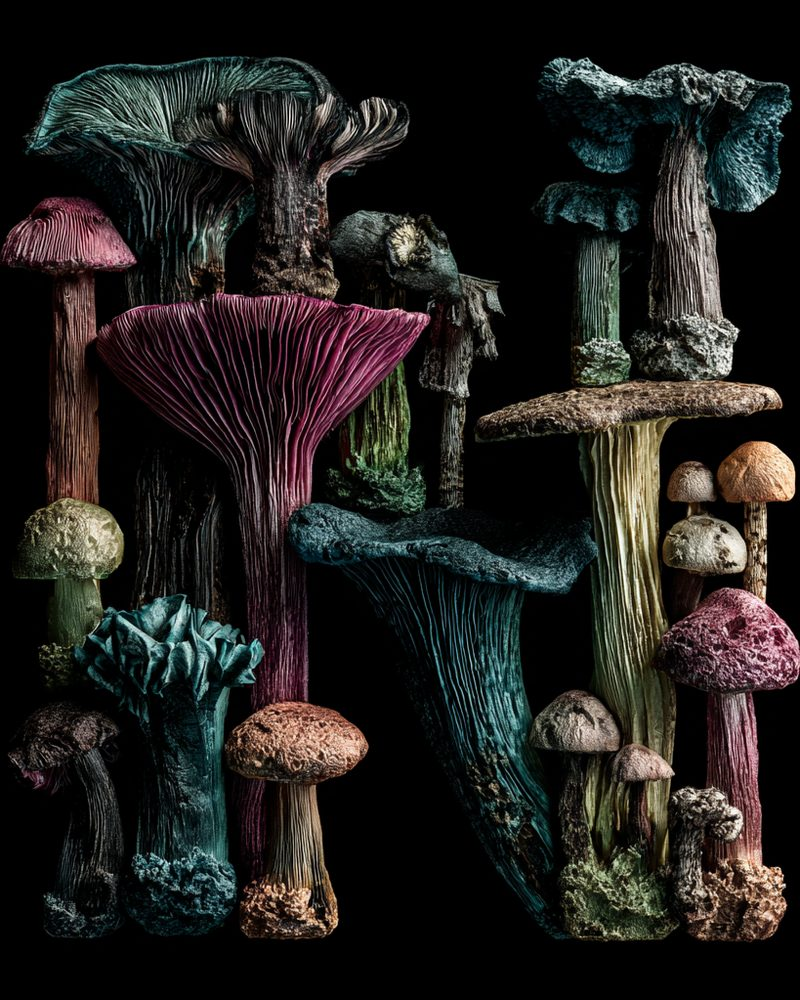
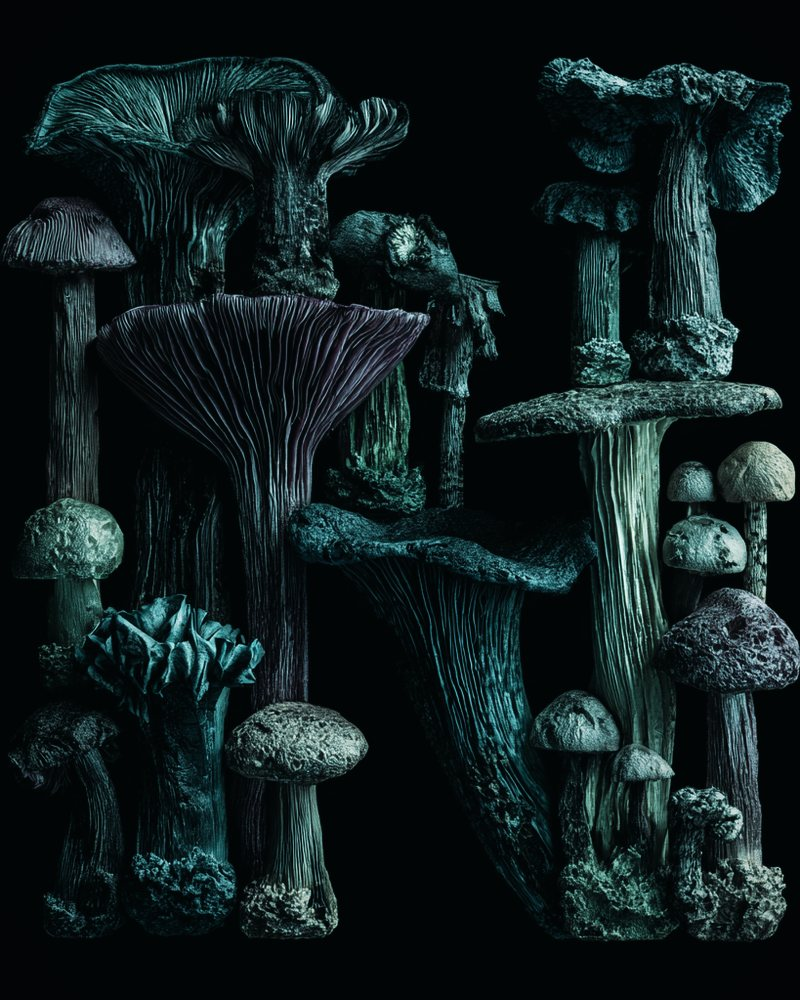
Grade community images to one palette; more effects site-wide
- Regrade personal finance, mycology and new r/shaving images to the
  coffee image's teal (accents kept); add r/shaving tile
- Reactive dots on every page header and the contact section
- Scroll reveals: content fades and rises in, heading rules draw in,
  community images settle from a slight zoom
- Spotlight on press cards and campaign cards too
- Press marquee takes logo files (shown in white); Engadget added,
  others show names until logos are supplied

Claude-Session: https://claude.ai/code/session_01K4Ke8b2gAM3j2hU2ST2Rto

diff --git a/src/app/site.css b/src/app/site.css
@@ -1676,7 +1676,7 @@ p, li, blockquote, figcaption { text-wrap: pretty; }
    -------------------------------------------------------------------------- */
 @media (hover: hover) and (pointer: fine) {
   .service:hover, .feature:hover, .step:hover, .service-block__out:hover,
-  .creds__list li:hover, .quote-card:hover, .community:hover {
+  .creds__list li:hover, .quote-card:hover, .community:hover, .press-card:hover, .camp:hover {
     background-image: radial-gradient(260px circle at var(--sx, 50%) var(--sy, 50%), rgba(0, 188, 212, 0.16), transparent 70%);
   }
   .community:hover, .quote-card:hover { box-shadow: var(--glow); }
@@ -1787,3 +1787,37 @@ p, li, blockquote, figcaption { text-wrap: pretty; }
   color: #cfd6d9;
 }
 .communities .section-head .body-lg { max-width: 46ch; }
+
+/* --------------------------------------------------------------------------
+   Scroll reveals (classes added by PageEffects; nothing hides without JS)
+   -------------------------------------------------------------------------- */
+@media (prefers-reduced-motion: no-preference) {
+  .reveal {
+    opacity: 0;
+    transform: translateY(28px);
+    transition:
+      opacity 0.8s cubic-bezier(.2, .7, .2, 1),
+      transform 0.8s cubic-bezier(.2, .7, .2, 1),
+      box-shadow 0.25s ease, background-color 0.25s ease;
+    transition-delay: calc(var(--i, 0) * 90ms), calc(var(--i, 0) * 90ms), 0s, 0s;
+  }
+  .reveal.is-in { opacity: 1; transform: none; }
+
+  /* the cyan rule above a heading draws in from the left */
+  .section-head.reveal .kicker { transform: scaleX(0); transform-origin: left; transition: transform 0.9s cubic-bezier(.2, .7, .2, 1) 0.15s; }
+  .section-head.reveal.is-in .kicker { transform: none; }
+
+  /* community images settle from a slight zoom as their tile arrives */
+  .community.reveal .community__media img { transform: scale(1.08); transition: transform 1.6s cubic-bezier(.2, .7, .2, 1); transition-delay: calc(var(--i, 0) * 90ms); }
+  .community.reveal.is-in .community__media img { transform: none; }
+}
+
+/* press marquee logos: any logo file shows in white */
+.marquee__logo {
+  display: block;
+  height: 26px;
+  width: auto;
+  filter: brightness(0) invert(1);
+  opacity: 0.72;
+}
+@media (max-width: 760px) { .marquee__logo { height: 22px; } }

diff --git a/src/components/site/PageEffects.tsx b/src/components/site/PageEffects.tsx
@@ -25,11 +25,43 @@ export default function PageEffects() {
     });
   }, [pathname]);
 
+  // Scroll reveals: content fades and rises into place as it scrolls into
+  // view, siblings one after another. The class is added here (not in the
+  // markup) so the page is fully visible without JavaScript, and nothing
+  // animates for visitors who turn off motion.
+  useEffect(() => {
+    if (!window.matchMedia("(prefers-reduced-motion: no-preference)").matches) return;
+    const REVEAL = [
+      ".section-head", ".service", ".feature", ".step", ".community", ".quote", ".quote-card",
+      ".person", ".creds__list li", ".press-card", ".camp", ".press-row", ".service-block",
+      ".faq > *", ".beliefs > *", ".closer", ".payoff__line",
+    ].join(", ");
+    const io = new IntersectionObserver(
+      (entries) => {
+        for (const e of entries) {
+          if (!e.isIntersecting) continue;
+          e.target.classList.add("is-in");
+          io.unobserve(e.target);
+        }
+      },
+      { rootMargin: "0px 0px -8% 0px", threshold: 0.12 },
+    );
+    const els = [...document.querySelectorAll<HTMLElement>(REVEAL)].filter((el) => !el.closest(".hero, .page-hero"));
+    for (const el of els) {
+      if (el.classList.contains("reveal")) continue;
+      const sibs = [...(el.parentElement?.children ?? [])].filter((c) => c.matches(REVEAL));
+      el.style.setProperty("--i", String(Math.min(Math.max(sibs.indexOf(el), 0), 6)));
+      el.classList.add("reveal");
+      io.observe(el);
+    }
+    return () => io.disconnect();
+  }, [pathname]);
+
   // Spotlight cards: tell the hovered card where the pointer is, so its
   // soft cyan light sits under the cursor (styles in site.css).
   useEffect(() => {
     if (!window.matchMedia("(hover: hover) and (pointer: fine)").matches) return;
-    const SPOT = ".service, .feature, .step, .service-block__out, .creds__list li, .quote-card, .community";
+    const SPOT = ".service, .feature, .step, .service-block__out, .creds__list li, .quote-card, .community, .press-card, .camp";
     const move = (e: PointerEvent) => {
       const card = (e.target as Element | null)?.closest<HTMLElement>(SPOT);
       if (!card) return;

diff --git a/src/lib/site-config.ts b/src/lib/site-config.ts
@@ -44,14 +44,37 @@ export const COMMUNITIES: Community[] = [
     alt: "Teal, magenta and ochre mushrooms arranged against black",
     line: "Foragers and citizen scientists. Precision is respect, and a wrong ID gets corrected fast.",
   },
+  {
+    sub: "r/shaving",
+    image: "/assets/img/communities/shaving.jpg",
+    alt: "Swirls of teal shaving cream, close up",
+    line: "Ritual over routine. Members trade technique and product notes like collectors.",
+  },
 ];
 
 /* PRESS MARQUEE (home page, under the credentials band)
    Outlets that have covered the team's work. Only list outlets with
-   confirmed coverage on the Press page. */
-export const PRESS_OUTLETS = [
-  "Adweek", "CNBC", "Variety", "Digiday", "The Drum", "Newsweek", "Engadget",
-  "Marketing Dive", "Modern Retail", "WARC", "Event Marketer", "BizBash", "LBB", "Tubefilter",
+   confirmed coverage on the Press page.
+   Logos: put each outlet's logo in public/assets/img/press/ (SVG best,
+   transparent PNG fine) and set `logo`. Any colour works: the marquee shows
+   every logo in white. Outlets without a logo file show their name instead. */
+export type Outlet = { name: string; logo?: string };
+
+export const PRESS_OUTLETS: Outlet[] = [
+  { name: "Adweek" },
+  { name: "CNBC" },
+  { name: "Variety" },
+  { name: "Digiday" },
+  { name: "The Drum" },
+  { name: "Newsweek" },
+  { name: "Engadget", logo: "/assets/img/press/engadget.svg" },
+  { name: "Marketing Dive" },
+  { name: "Modern Retail" },
+  { name: "WARC" },
+  { name: "Event Marketer" },
+  { name: "BizBash" },
+  { name: "LBB" },
+  { name: "Tubefilter" },
 ];
 
 /* CLIENT QUOTES

diff --git a/src/components/site/DotField.tsx b/src/components/site/DotField.tsx
@@ -2,7 +2,7 @@
 
 import { useEffect, useRef } from "react";
 
-/* Reactive dot texture for the home hero.
+/* Reactive dot texture for the home hero and every page header.
    The CSS dot grid (.hero::after) stays as the base layer. This canvas only
    lights up the dots near the cursor, on the same 28px grid, so nothing
    moves: dots just brighten where you point and fade back when you leave.
@@ -15,7 +15,7 @@ export default function DotField() {
 
   useEffect(() => {
     const canvas = ref.current;
-    const hero = canvas?.closest<HTMLElement>(".hero");
+    const hero = canvas?.closest<HTMLElement>(".hero, .page-hero, .contact-page");
     if (!canvas || !hero) return;
     if (!window.matchMedia("(pointer: fine) and (prefers-reduced-motion: no-preference)").matches) return;
     const ctx = canvas.getContext("2d");

diff --git a/src/app/(site)/services/page.tsx b/src/app/(site)/services/page.tsx
@@ -1,4 +1,5 @@
 import type { Metadata } from "next";
+import DotField from "@/components/site/DotField";
 import Link from "next/link";
 
 /* Converted from Will's static services.html. Edit the markup here;
@@ -17,6 +18,7 @@ export default function ServicesPage() {
   return (
     <>
       <section className="page-hero" aria-labelledby="page-title">
+        <DotField />
         <div className="wrap">
           <span className="kicker" aria-hidden="true"></span>
           <h1 className="display h1" id="page-title">Everything you need to show up well</h1>

diff --git a/src/app/(site)/contact/page.tsx b/src/app/(site)/contact/page.tsx
@@ -1,4 +1,5 @@
 import type { Metadata } from "next";
+import DotField from "@/components/site/DotField";
 import ContactForm from "@/components/site/ContactForm";
 
 /* Converted from Will's static contact.html. Edit the markup here;
@@ -17,6 +18,7 @@ export default function ContactPage() {
   return (
     <>
       <section className="section section--dark contact-page" id="contact" aria-labelledby="contact-title">
+        <DotField />
         <div className="wrap contact">
           <div>
             <span className="kicker" aria-hidden="true"></span>

diff --git a/src/app/(site)/press/page.tsx b/src/app/(site)/press/page.tsx
@@ -1,4 +1,5 @@
 import type { Metadata } from "next";
+import DotField from "@/components/site/DotField";
 import Link from "next/link";
 
 /* Converted from Will's static press.html. Edit the markup here;
@@ -17,6 +18,7 @@ export default function PressPage() {
   return (
     <>
       <section className="page-hero" aria-labelledby="page-title">
+        <DotField />
         <div className="wrap">
           <span className="tag">In the press</span>
           <h1 className="display h1" id="page-title">The people the industry calls to explain Reddit</h1>

diff --git a/src/components/site/PressMarquee.tsx b/src/components/site/PressMarquee.tsx
@@ -7,7 +7,14 @@ export default function PressMarquee() {
   const row = (hidden: boolean) => (
     <ul className="marquee__row" aria-hidden={hidden || undefined}>
       {PRESS_OUTLETS.map((o) => (
-        <li key={o}>{o}</li>
+        <li key={o.name}>
+          {o.logo ? (
+            // eslint-disable-next-line @next/next/no-img-element
+            <img className="marquee__logo" src={o.logo} alt={hidden ? "" : o.name} />
+          ) : (
+            o.name
+          )}
+        </li>
       ))}
     </ul>
   );

diff --git a/src/app/(site)/about/page.tsx b/src/app/(site)/about/page.tsx
@@ -1,4 +1,5 @@
 import type { Metadata } from "next";
+import DotField from "@/components/site/DotField";
 import Link from "next/link";
 import LinkedInLink from "@/components/site/LinkedInLink";
 
@@ -20,6 +21,7 @@ export default function AboutPage() {
   return (
     <>
       <section className="page-hero" aria-labelledby="page-title">
+        <DotField />
         <div className="wrap">
           <span className="kicker" aria-hidden="true"></span>
           <h1 className="display h1" id="page-title">

diff --git a/CLAUDE.md b/CLAUDE.md
@@ -36,8 +36,9 @@ Marketing site for **Memes to an End (M2E)**. Designed and first built by Will C
 - **Signature details:** thin frame lines and vertical side text, small cyan square bullets, cyan pill labels (`.tag`, used sparingly), the hero's network of curved lines and squares.
 - **Dot texture:** a fine teal dot grid on the right side of dark areas and ink dots on the cyan band, fading in from the left so it never sits under body copy (`--dots` / `--dots-ink` in site.css). Keep it subtle and off white sections.
 - **Hover:** one subtle cyan glow on boxes and cards (`--glow`). Portraits have no hover effect.
-- **Effects (21st.dev-style, hand-built):** reactive dots in the home hero (`DotField.tsx`: dots near the cursor brighten, nothing moves; off on touch and reduced motion), spotlight cards (soft cyan light under the cursor on cards, set by `PageEffects`), and the press marquee (`PressMarquee.tsx`: pauses on hover, still for reduced motion).
-- **Community imagery:** dark, low-key studio shots with a teal/magenta grade, one subject that personifies a subreddit's culture (a person or an object). 4:5 portraits, 800 × 1000, in `public/assets/img/communities/`. All images should look like one series.
+- **Effects (21st.dev-style, hand-built):** reactive dots in the home hero, every inner page header and the contact section (`DotField.tsx`: dots near the cursor brighten, nothing moves; off on touch and reduced motion); spotlight cards (soft cyan light under the cursor on cards, set by `PageEffects`); scroll reveals (headings, cards, tiles, team and press items fade and rise in one after another, heading rules draw in, community images settle from a slight zoom; added by `PageEffects`, so nothing is hidden without JavaScript or with reduced motion); and the press marquee (`PressMarquee.tsx`: pauses on hover, still for reduced motion).
+- **Press marquee logos:** files in `public/assets/img/press/`, set as `logo` in `PRESS_OUTLETS`. Any colour works; CSS shows them all in white. Outlets without a file show their name in Impact.
+- **Community imagery:** tangible things, not people: zoomed-in, textured, product-focused shots of an object that stands for a subreddit's culture (latte for r/coffee, banknote for r/personalfinance, shaving cream for r/shaving). Dark and low-key, graded to the coffee image's teal; other colours may survive as accents but teal leads. 4:5 portraits, 800 × 1000, in `public/assets/img/communities/`. All images should look like one series.
 - **Hero network:** draws itself in once on load, then stays still. No cursor-follow and no looping pulse (Hakan removed both, Nov 2026).
 - **Line breaks:** headlines use `text-wrap: balance` so no line ends with a lone word. Use `<span className="keep">` to hold a phrase on one line (wider screens only) and `&nbsp;` to tie two words together everywhere.
 - **Navigation:** Services, About, Press, plus the "Start a conversation" button. There is deliberately no separate "Contact" nav item (the button goes there); the footer still lists Contact.
